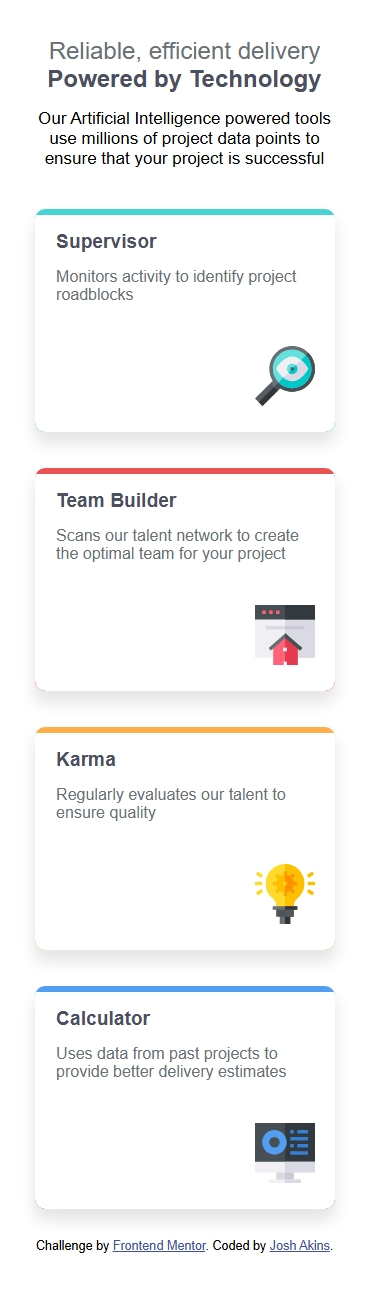
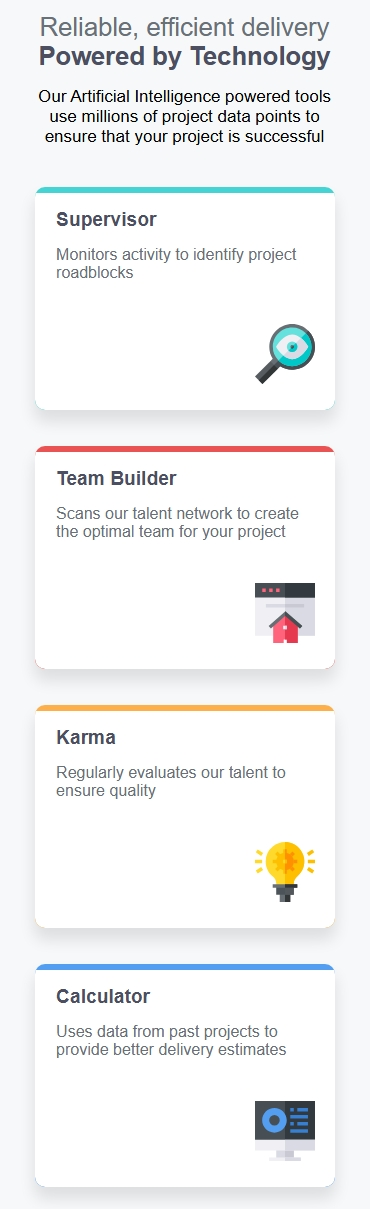
good

Changed region(s): [[0.0892, 0.2754, 0.8919, 1.0], [0.0892, 0.0, 0.9216, 0.2448]]

diff --git a/styles.css b/styles.css
@@ -40,7 +40,7 @@ body {
   font-family: "Poppins", sans-serif;
   font-weight: 400;
   font-style: normal;
-  background-color: hsl(210, 8%, 95%);
+  background-color: hsl(201, 18%, 97%);
 }
 
 .sectionContainer {
